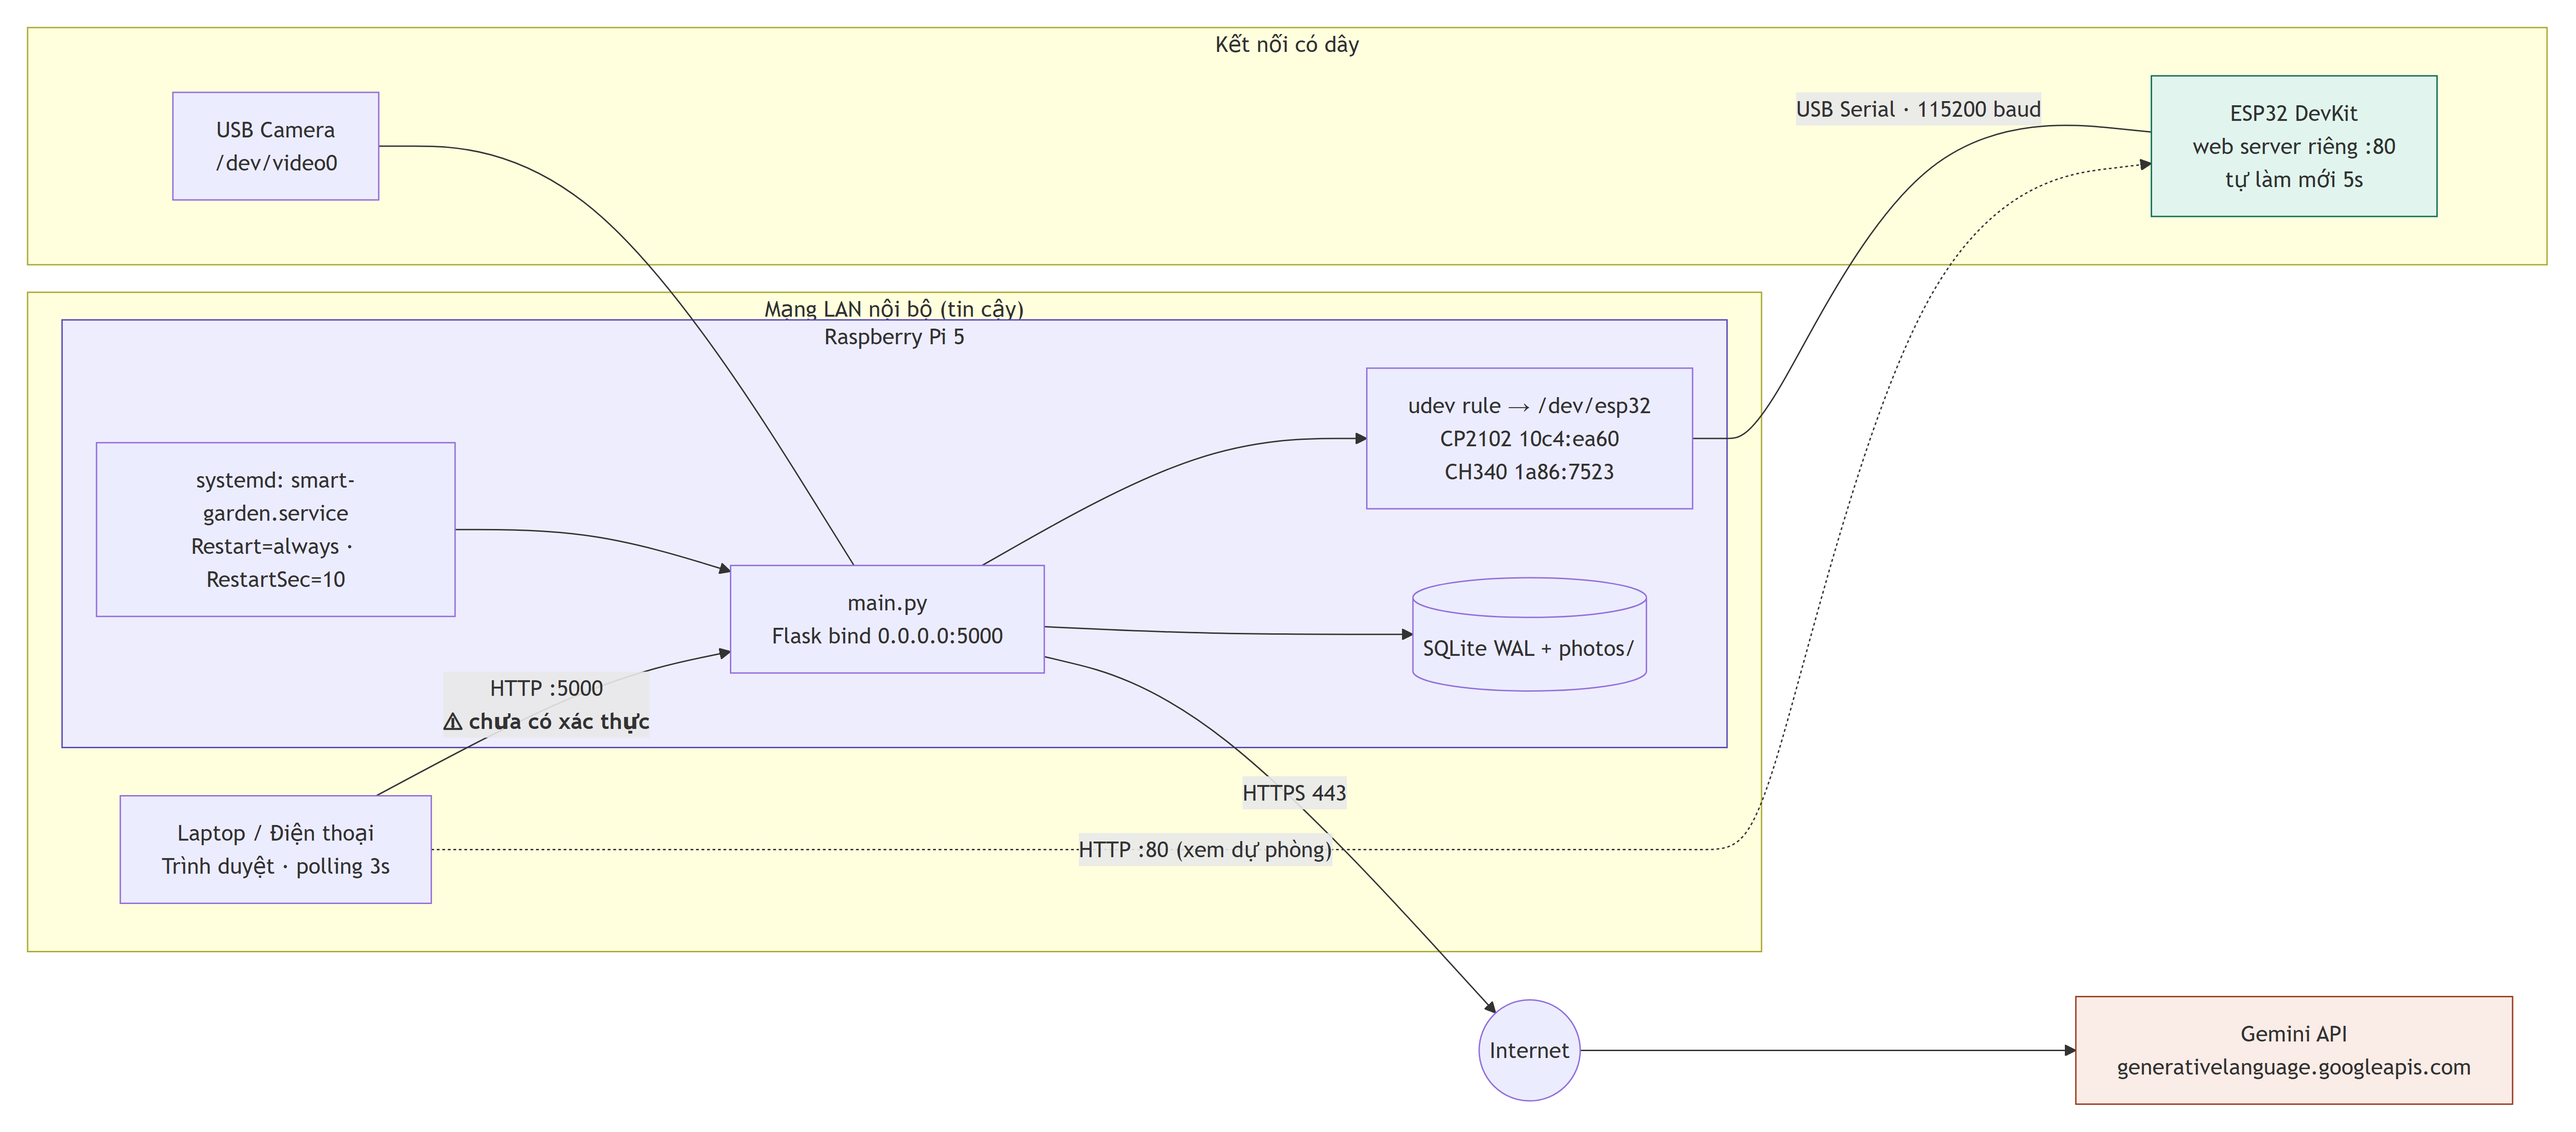
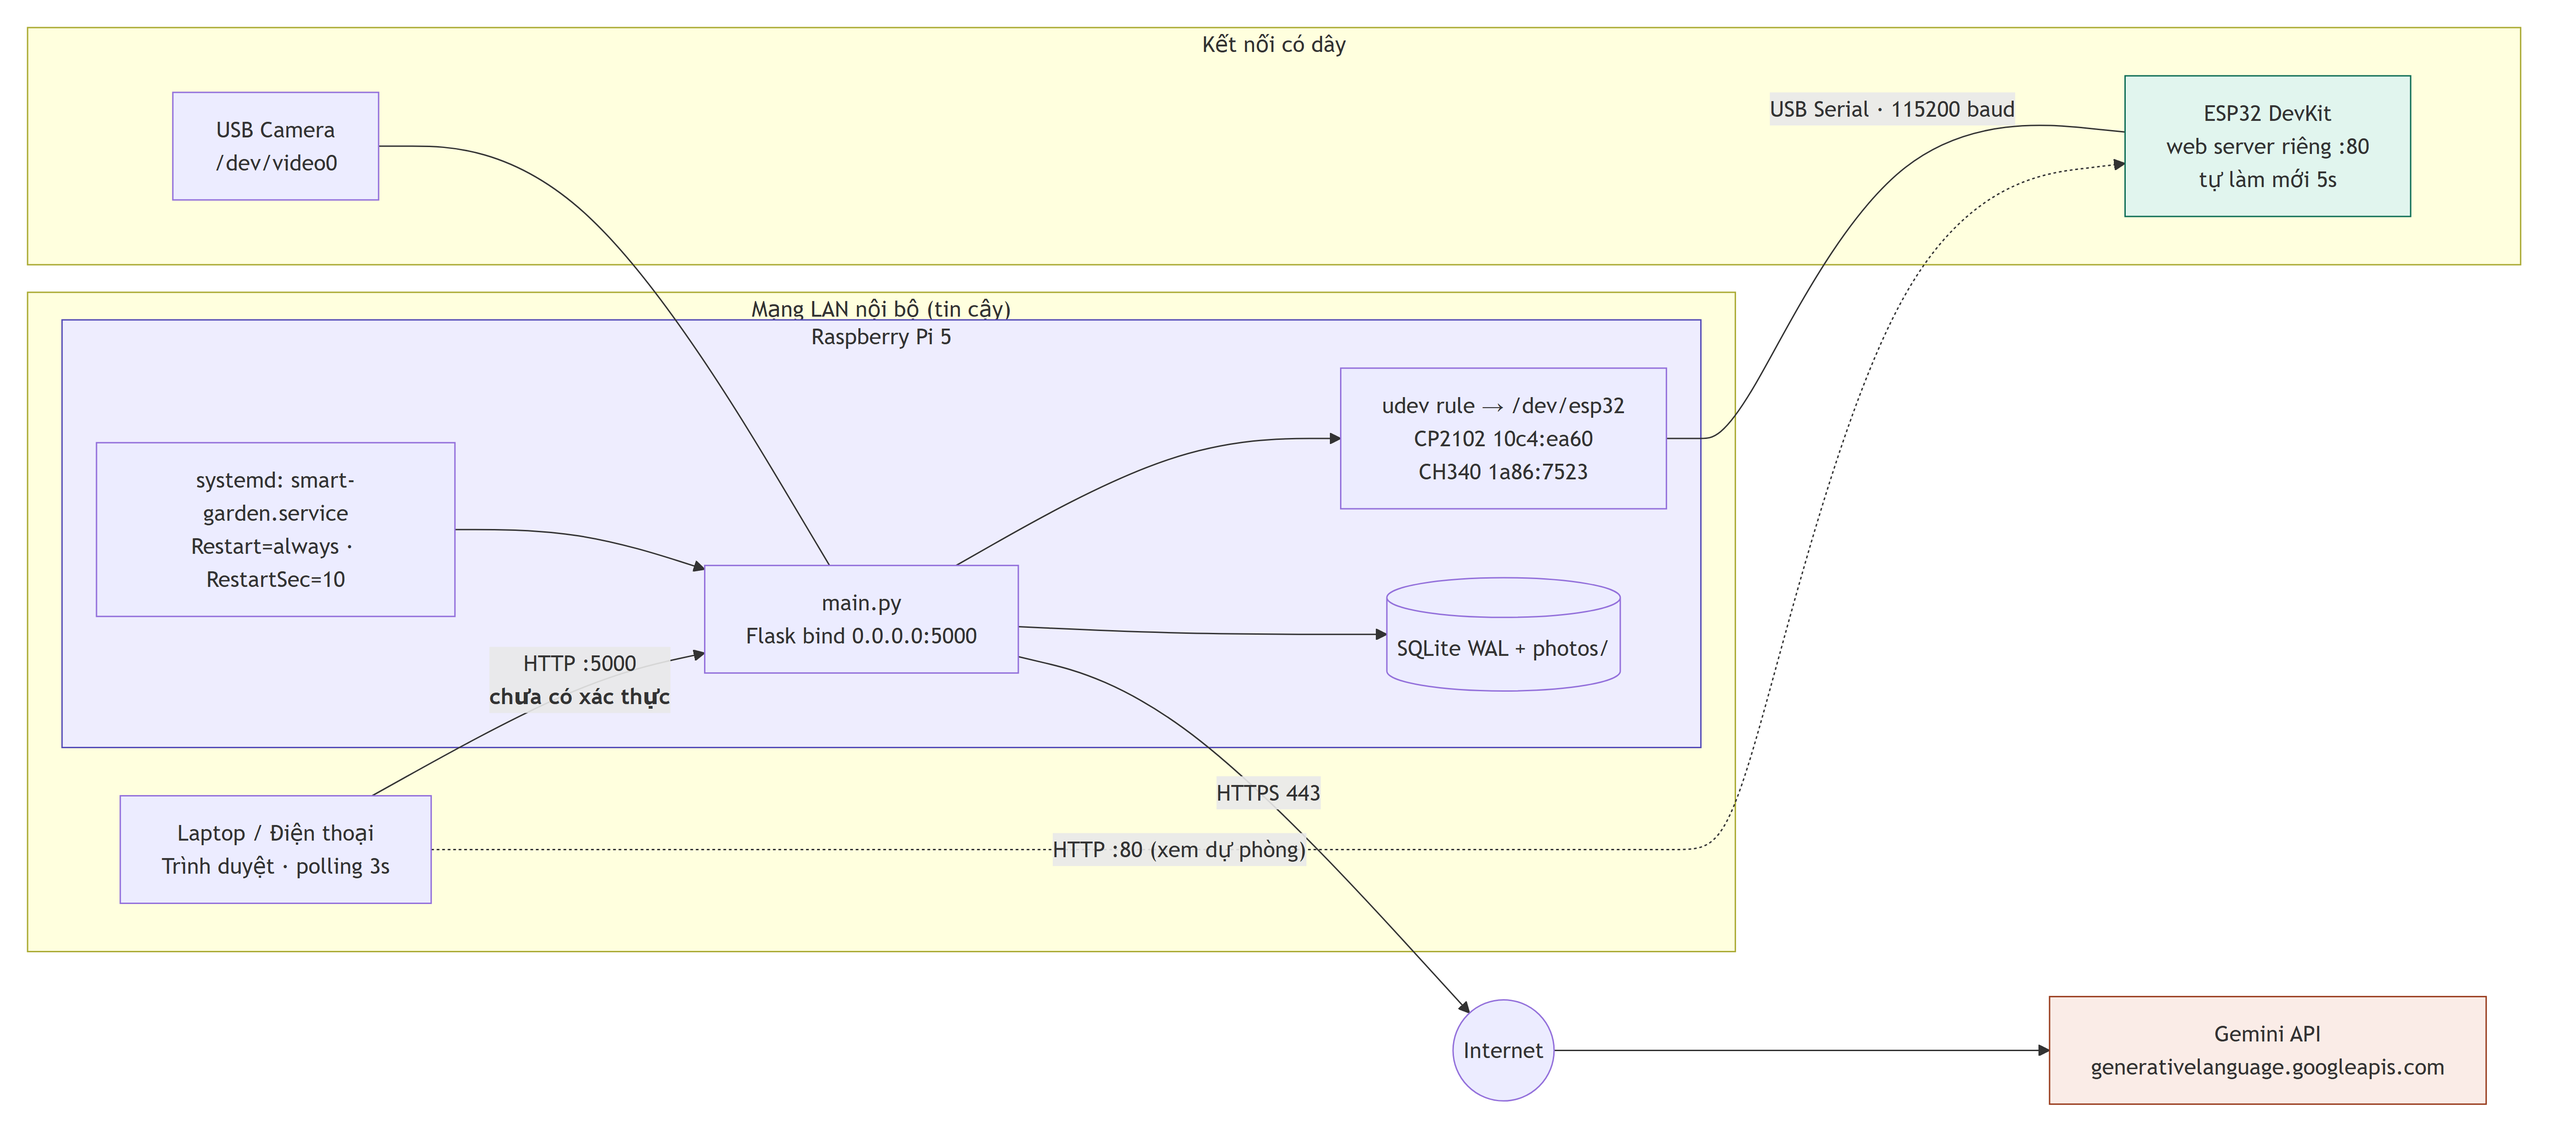
Bỏ emoji khỏi toàn bộ sơ đồ và xuất lại PNG
16 chỗ trong 7 sơ đồ. Nhãn nút chỉ xoá icon và khoảng trắng thừa. Hai chỗ dấu
tick mang nghĩa thì thay bằng chữ: "enum ✓ · conf 95 ≥ 40 ✓ · có cây ✓" thành
"enum hợp lệ · conf 95 ≥ 40 · có cây trong khung", và "95% ≥ 70% ✓ và ngoài
cooldown ✓" thành "95% ≥ 70% và ngoài cooldown".

Thông tin không mất đi: các mức ưu tiên vẫn phân biệt bằng màu nền, vốn mới là
mã hoá thị giác thật sự của hình, icon chỉ trang trí. Giờ khớp với README và
SETUP_PI5 vừa bỏ icon.

Sáu PNG đổi nội dung, hai file 04b và 07 không đổi vì vốn không có emoji.

Claude-Session: https://claude.ai/code/session_01KCpTS22Dk1Kj2XSEKc8Jfz

diff --git a/doc/smart_garden_diagrams_v2.md b/doc/smart_garden_diagrams_v2.md
@@ -40,11 +40,11 @@ Sơ đồ 2 nên đặt riêng một trang khổ ngang. Sơ đồ 7 rất rộng
 
 ```mermaid
 flowchart TB
-    subgraph CLOUD["☁ Tầng đám mây"]
+    subgraph CLOUD["Tầng đám mây"]
         GEM["Gemini Vision API<br/><i>gemini-3.1-flash-lite</i><br/>Trả JSON: trang_thai · do_tin_cay · ghi_chu"]
     end
 
-    subgraph EDGE["🖥 Tầng biên — Raspberry Pi 5 · main.py (Python đa luồng)"]
+    subgraph EDGE["Tầng biên — Raspberry Pi 5 · main.py (Python đa luồng)"]
         direction TB
         SR["<b>serial_reader</b> (thread)<br/>Đọc JSON 2s/lần<br/>Tự kết nối lại"]
         AI["<b>ai_vision_worker</b> (thread)<br/>OpenCV chụp mỗi 15 phút<br/>Lưu ảnh có dấu thời gian"]
@@ -55,7 +55,7 @@ flowchart TB
         PH[("photos/<br/>leaf_YYYYmmdd_HHMMSS.jpg<br/>giữ 50 file gần nhất")]
     end
 
-    subgraph MCU["🔌 Tầng thiết bị — ESP32 (điều khiển thời gian thực)"]
+    subgraph MCU["Tầng thiết bị — ESP32 (điều khiển thời gian thực)"]
         direction TB
         SEN["Cảm biến<br/>DHT11 · quang trở · độ ẩm đất"]
         AUTO["<b>Logic AUTO cục bộ</b><br/>Theo ngưỡng trong firmware<br/><i>Chạy độc lập với Pi</i>"]
@@ -64,8 +64,8 @@ flowchart TB
         WD["<b>checkSerialWatchdog()</b><br/>Quá 60s không nhận gì từ Pi<br/>→ nhả relay, quay về AUTO<br/><i>báo cờ wd_tripped</i>"]
     end
 
-    CAM["📷 USB Camera"]
-    WEB["🌐 Trình duyệt cùng LAN<br/>dashboard.html"]
+    CAM["USB Camera"]
+    WEB["Trình duyệt cùng LAN<br/>dashboard.html"]
 
     CAM -->|"cv2.VideoCapture"| AI
     AI <-->|"HTTPS · upload ảnh / JSON"| GEM
@@ -111,21 +111,21 @@ flowchart TD
     START(["decision_loop — mỗi 2 giây"]) --> L1{"<b>MỨC 1 — AI KHẨN CẤP</b><br/>trang_thai = heo_ru<br/>VÀ do_tin_cay ≥ 70%<br/>VÀ ngoài cooldown?"}
 
     L1 -->|Có| SOIL{"<b>Đối chiếu độ ẩm đất</b><br/>soil < 40% ?"}
-    SOIL -->|"Đất KHÔ"| E1["🚨 WATER_ON — xung 60 giây<br/>hết hạn tự trả AUTO<br/>Cooldown 3600s<br/>log: emergency_watering"]
-    SOIL -->|"Đất ĐỦ ẨM"| E2["🛑 LOCK_IDLE — giữ 900 giây<br/><b>NGHI THỐI RỄ — không tưới</b><br/>log: rootrot_hold"]
+    SOIL -->|"Đất KHÔ"| E1["WATER_ON — xung 60 giây<br/>hết hạn tự trả AUTO<br/>Cooldown 3600s<br/>log: emergency_watering"]
+    SOIL -->|"Đất ĐỦ ẨM"| E2["LOCK_IDLE — giữ 900 giây<br/><b>NGHI THỐI RỄ — không tưới</b><br/>log: rootrot_hold"]
 
     L1 -->|Không| L2{"<b>MỨC 2 — TIME GUARD</b><br/>Giờ hiện tại 19h–6h?"}
-    L2 -->|Có| N["🌙 LOCK_IDLE — khoá ban đêm<br/><i>lệnh tay KHÔNG ghi đè được</i>"]
+    L2 -->|Có| N["LOCK_IDLE — khoá ban đêm<br/><i>lệnh tay KHÔNG ghi đè được</i>"]
 
     L2 -->|Không| L3{"<b>MỨC 3 — MANUAL OVERRIDE</b><br/>now < manual_override_until?"}
-    L3 -->|Có| M["✋ Giữ nguyên lệnh tay<br/>Lease 600 giây rồi tự nhả<br/>Nguồn: Web / Terminal"]
+    L3 -->|Có| M["Giữ nguyên lệnh tay<br/>Lease 600 giây rồi tự nhả<br/>Nguồn: Web / Terminal"]
 
     L3 -->|Không| L4{"<b>MỨC 4 — MA TRẬN FUSION</b><br/>Có chẩn đoán hợp lệ<br/>(conf ≥ 40)?"}
-    L4 -->|"dom_nau"| F1["🍄 MIST_LOCK — cấm phun sương<br/>tưới gốc vẫn chạy theo ngưỡng<br/><b>ĐỔI HÀNH VI THẬT</b><br/>log: fungus_mist_lock"]
-    L4 -->|"vang_la"| F2["🌱 AUTO + cảnh báo thiếu đạm<br/><i>chỉ tư vấn — KHÔNG đổi actuator</i>"]
+    L4 -->|"dom_nau"| F1["MIST_LOCK — cấm phun sương<br/>tưới gốc vẫn chạy theo ngưỡng<br/><b>ĐỔI HÀNH VI THẬT</b><br/>log: fungus_mist_lock"]
+    L4 -->|"vang_la"| F2["AUTO + cảnh báo thiếu đạm<br/><i>chỉ tư vấn — KHÔNG đổi actuator</i>"]
     L4 -->|"binh_thuong / khong_xac_dinh<br/>hoặc không có chẩn đoán"| L5
 
-    L5["<b>MỨC 5 — MẶC ĐỊNH</b><br/>✅ AUTO<br/>ESP32 tự quyết theo ngưỡng cục bộ"]
+    L5["<b>MỨC 5 — MẶC ĐỊNH</b><br/>AUTO<br/>ESP32 tự quyết theo ngưỡng cục bộ"]
 
     E1 --> SEND
     E2 --> SEND
@@ -171,7 +171,7 @@ flowchart LR
     G --> PH[("photos/leaf_*.jpg<br/>giữ 50 file")]
     G --> H["Gemini Vision<br/>prompt ép trả JSON<br/>+ hỏi 'có cây trong ảnh không?'"]
     H --> V{"<b>normalize_ai_result()</b><br/>1· parse JSON được?<br/>2· trang_thai trong enum?<br/>3· do_tin_cay ≥ 40?<br/>4· có cây trong khung?"}
-    V -->|"Hỏng"| X["❌ Loại bỏ<br/>tăng bộ đếm thất bại<br/>→ camera_alert"]
+    V -->|"Hỏng"| X["Loại bỏ<br/>tăng bộ đếm thất bại<br/>→ camera_alert"]
     V -->|"Hợp lệ"| I["latest_ai_result"]
     I --> DB2[("SQLite · ai_diagnosis")]
     X --> DB2
@@ -219,11 +219,11 @@ sequenceDiagram
     AIW->>DB: lưu ảnh vào photos/
     AIW->>GEM: upload ảnh + prompt ép JSON
     GEM-->>VAL: {"trang_thai":"heo_ru","do_tin_cay":95,"co_cay":true}
-    VAL->>VAL: enum ✓ · conf 95 ≥ 40 ✓ · có cây ✓
+    VAL->>VAL: enum hợp lệ · conf 95 ≥ 40 · có cây trong khung
     VAL->>DB: ai_diagnosis
     VAL->>DL: latest_ai_result
 
-    DL->>DL: MỨC 1 — 95% ≥ 70% ✓ và ngoài cooldown ✓
+    DL->>DL: MỨC 1 — 95% ≥ 70% và ngoài cooldown
     DL->>DL: đối chiếu soil = 28% < 40% → ĐẤT KHÔ
     DL->>DB: events: emergency_watering
     DL->>ESP: WATER_ON
@@ -300,7 +300,7 @@ flowchart LR
     APP --> UDEV
     UDEV ---|"USB Serial · 115200 baud"| ESP
     USB --- APP
-    PC -->|"HTTP :5000<br/><b>⚠ chưa có xác thực</b>"| APP
+    PC -->|"HTTP :5000<br/><b>chưa có xác thực</b>"| APP
     PC -.->|"HTTP :80 (xem dự phòng)"| ESP
     APP -->|"HTTPS 443"| NET
     NET --> GEM
